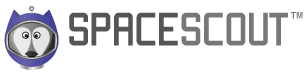
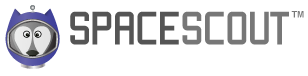
styling images for guidelines page

Changed region(s): [[0.0, 0.0526, 0.9935, 0.9211]]

diff --git a/trademark_guidelines.html b/trademark_guidelines.html
@@ -70,7 +70,7 @@
        <p class="indent">SpaceScout&trade; at Acme University</p>
 	
 	    <div class="images indent">
-            <img src="images/icon_text_atInstitution1.png" alt="Spacescout at your institution logo"/>
+            <img src="images/icon_text_atInstitution.png" alt="Spacescout at your institution logo"/>
         </div>
         
         <p>In either case, you must make clear that the marks are used under license, and that the product and service are not a joint venture between the institution and UW.</p>
